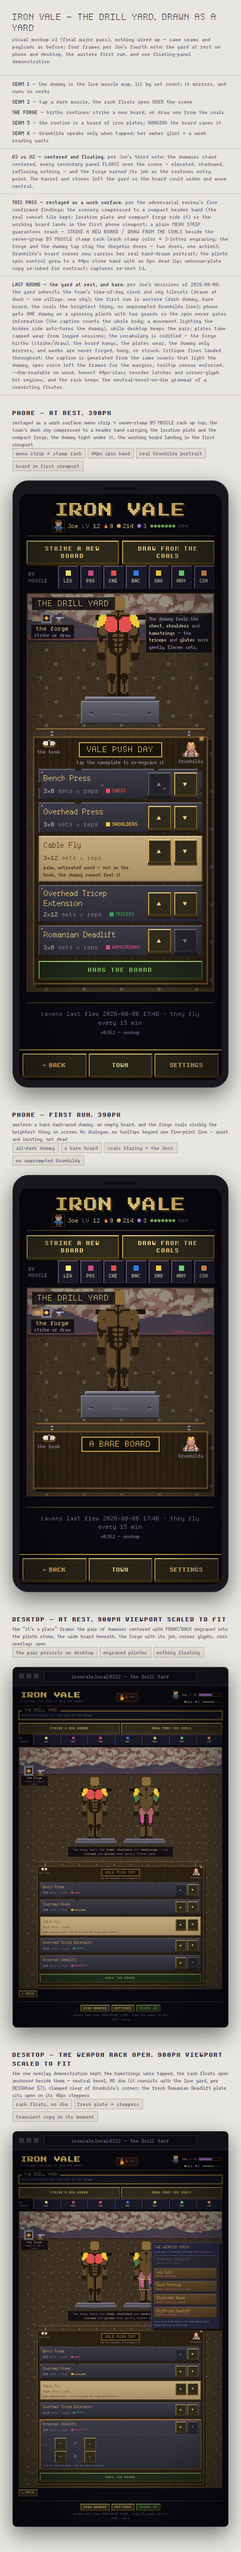
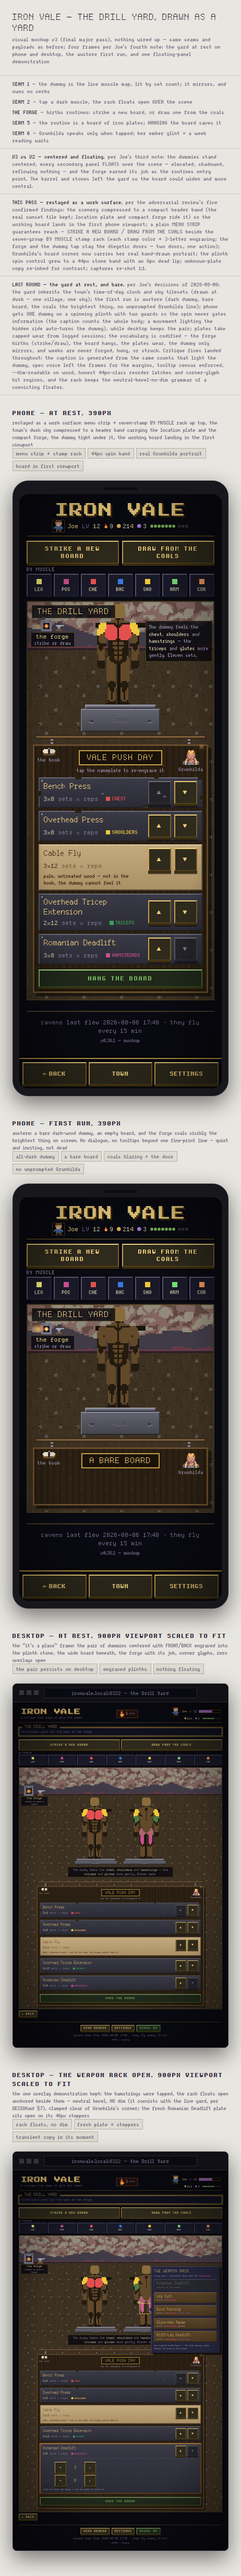
Widen the muscle stamps to a 44px hit region
Review residual on aa65cbb: the seven BY MUSCLE stamps measured ~39.4px wide; the label now rides its own row so each stamp is 48x44px, and .p-unknown ink deepens to #33230f.

Changed region(s): [[0.0303, 0.0, 0.9394, 0.9975]]

diff --git a/docs/mockups/routine-builder-scene.html b/docs/mockups/routine-builder-scene.html
@@ -235,9 +235,12 @@ body { margin:0; background:var(--wall); color:var(--note); font-family:'quanta-
 .iv .menu-strip { display:flex; gap:6px; margin:8px 4px 0; align-items:stretch; }
 .iv .menu-strip .btn { flex:1; min-height:44px; padding:4px 8px; }
 /* the seven-group stamp rack: BY MUSCLE's guaranteed-reach door. Every stamp
-   carries its color AND a 3-letter engraving — color is never the only channel */
-.iv .stamp-rack { display:grid; grid-template-columns:auto repeat(7,minmax(0,1fr)); gap:4px; margin:4px 4px 0; }
-.iv .stamp-rack .sr-label { display:flex; align-items:center; padding:0 4px; max-width:56px;
+   carries its color AND a 3-letter engraving — color is never the only channel.
+   The BY MUSCLE label rides its own slim row ABOVE the stamps (grid-column
+   1/-1) so all seven columns go to the stamps: on the 390px phone screen each
+   stamp measures 48px wide x 44px tall — both axes clear the 44px minimum */
+.iv .stamp-rack { display:grid; grid-template-columns:repeat(7,minmax(44px,1fr)); gap:3px 4px; margin:4px 4px 0; }
+.iv .stamp-rack .sr-label { grid-column:1 / -1; display:flex; align-items:center;
   font-family:var(--font-fine); font-size:var(--type-fine); line-height:1.25; color:var(--dim-readable); letter-spacing:1px; }
 .iv .stamp { min-height:44px; display:flex; flex-direction:column; align-items:center; justify-content:center; gap:3px; padding:0;
   cursor:pointer; background:var(--panel2); border:2px solid; border-color:var(--edge-lit) var(--edge-shade) var(--edge-shade) var(--edge-lit); }
@@ -343,7 +346,7 @@ body { margin:0; background:var(--wall); color:var(--note); font-family:'quanta-
 .iv .plate-iron.wood .pname { color:#3c2a12; }
 .iv .plate-iron.wood .scheme { color:#5c452a; }
 .iv .plate-iron.wood .scheme b { color:#33230f; }
-.iv .plate-iron.wood .p-unknown { grid-column:1; color:#3c2a12; font-family:var(--font-fine); font-size:var(--type-fine); }
+.iv .plate-iron.wood .p-unknown { grid-column:1; color:#33230f; font-family:var(--font-fine); font-size:var(--type-fine); }
 .iv .plate-iron.fresh { border-color:#f0a850 #7a4a20 #5c3816 #c07838; box-shadow:0 0 0 2px rgba(240,168,80,0.28), 4px 4px 0 rgba(0,0,0,0.5);
   animation:freshGlow 1.4s ease-in-out infinite alternate; }
 @keyframes freshGlow { from { box-shadow:0 0 0 2px rgba(240,168,80,0.14), 4px 4px 0 rgba(0,0,0,0.5); }
